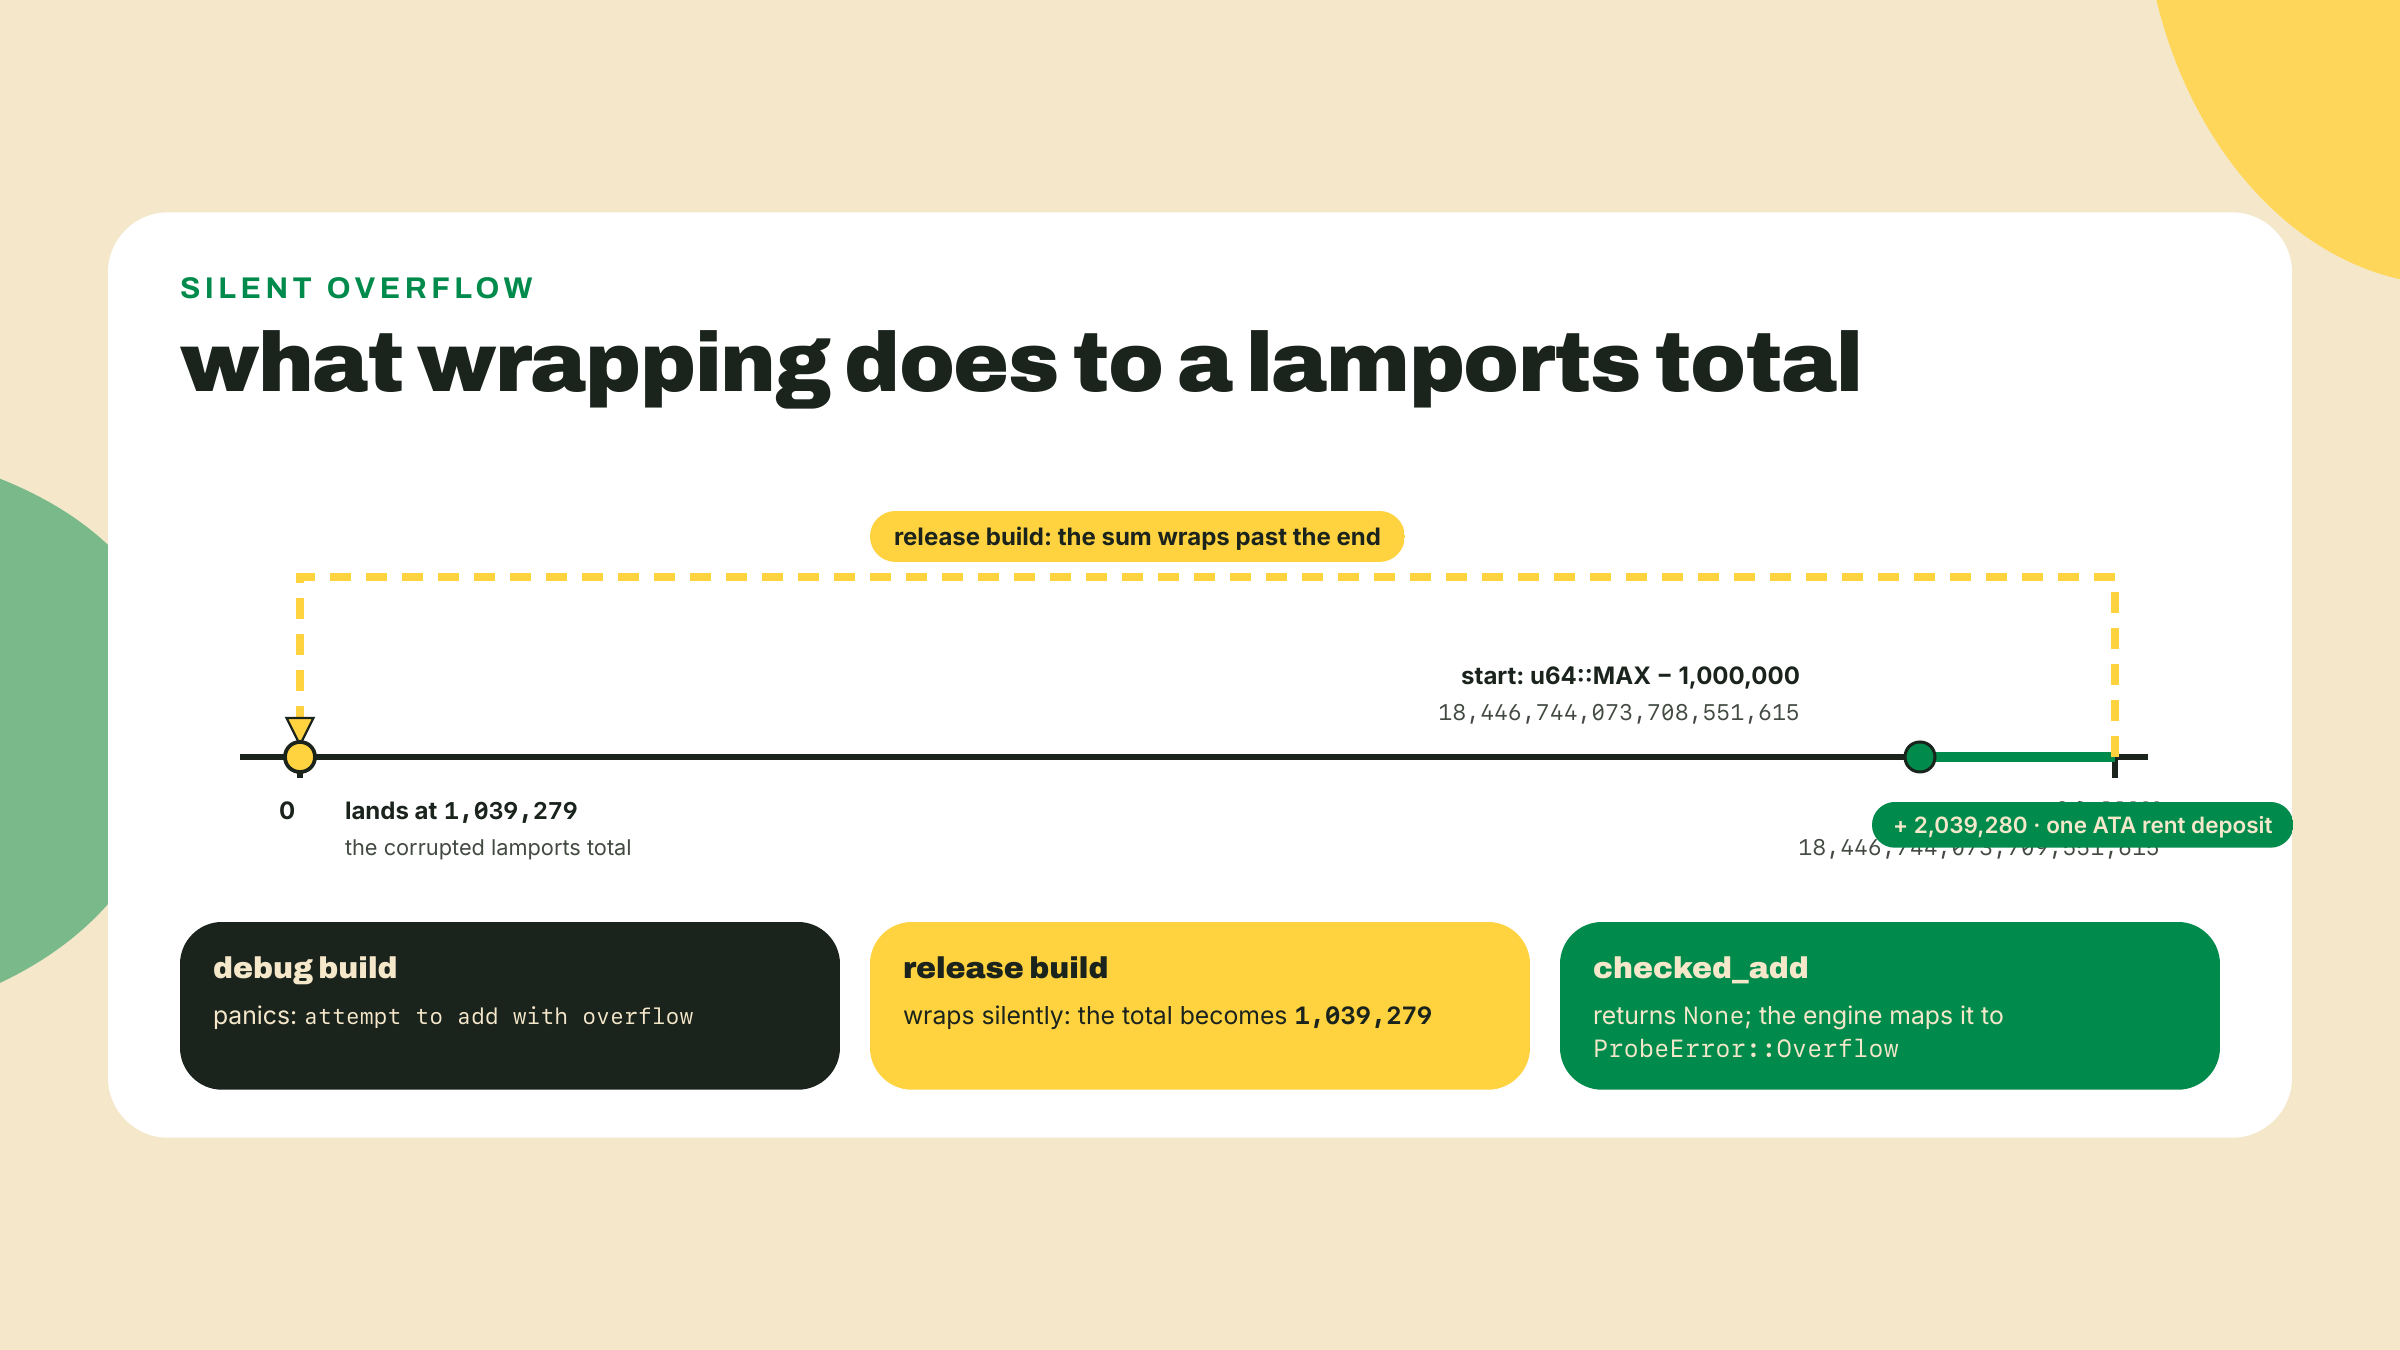
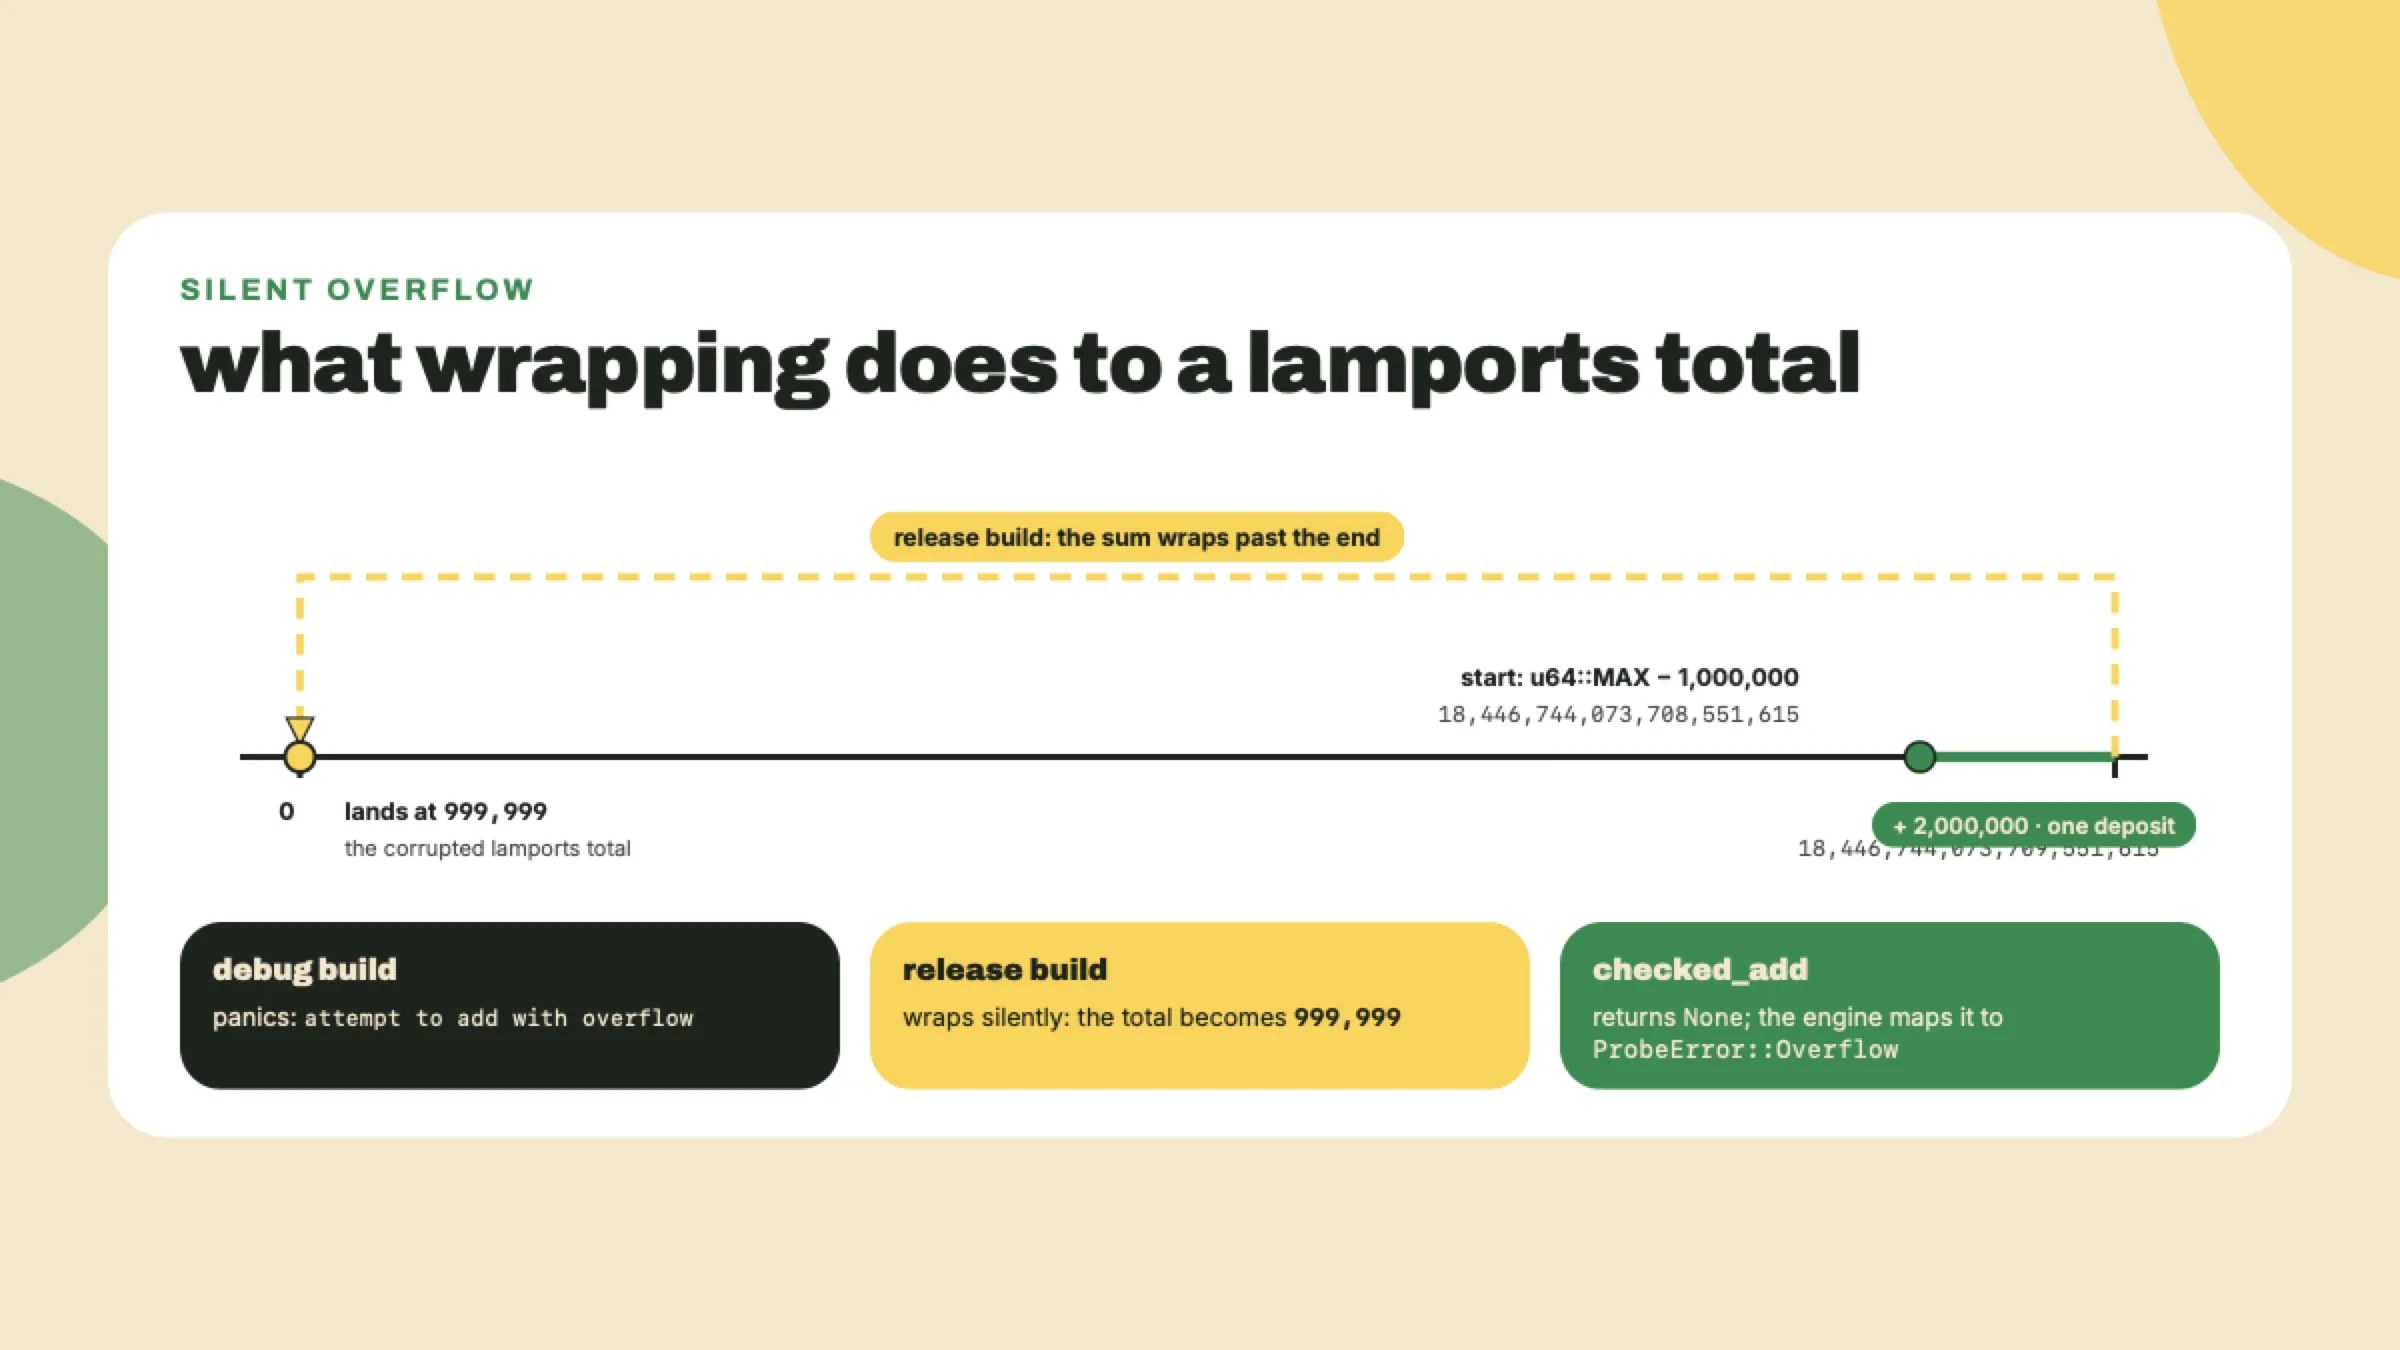
fix(rust-ts): decouple the u64 overflow example from the ATA rent constant
m04-l2 worked the overflow with 2,039,280 lamports, described as the
rent-exempt balance for one associated token account. That is the
pre-SIMD-0437 figure and it now matches no cluster: probed 2026-09-11,
mainnet answers 1,855,569 and devnet 1,488,440 for a 165-byte account.
It also contradicted solana-payments-commerce, which teaches the live
numbers and re-verified exactly.

Rather than re-stamp a figure that will drift again on the next SIMD-0437
step, the example drops the rent framing entirely. The lesson is about
wrapping arithmetic, not about rent: a live constant added no teaching
value, could not be probe-driven (a changing addend changes the worked
result), and was carrying a maintenance liability plus a cross-course
contradiction.

The addend is now a round 2,000,000, which wraps to 999,999 — still
"roughly one thousandth of a SOL", so the sentence that follows it holds,
and an easier number to follow than 1,039,279. intro, the quiz
explanation, and the v04 diagram move together; no 2,039,280 or 1,039,279
remains anywhere in the course.

quiz_permute check: 135 questions, 0 out of order. quiz_stats: pass.

diff --git a/courses/rust-ts-fundamentals/visual-src/m04-l2/v04-diagram.html b/courses/rust-ts-fundamentals/visual-src/m04-l2/v04-diagram.html
@@ -12,7 +12,7 @@
 <body>
 <!-- diagram: What wrapping does to a lamports total
      purpose: show the silent wrap with the lesson's worked numbers so the corruption is visible
-     data: u64 number line from 0 to u64::MAX (18,446,744,073,709,551,615) start: u64::MAX - 1,000,000 = 18,446,744,073,708,551,615 add: 2,039,280 lamports (one ATA rent deposit) debug build: panic, attempt to add with overflow release build: wraps past the end to 1,039,279 checked_add: returns None, which the engine maps to ProbeError::Overflow note: all values exact, derived from u64::MAX arithmetic
+     data: u64 number line from 0 to u64::MAX (18,446,744,073,709,551,615) start: u64::MAX - 1,000,000 = 18,446,744,073,708,551,615 add: 2,000,000 lamports (one deposit) debug build: panic, attempt to add with overflow release build: wraps past the end to 999,999 checked_add: returns None, which the engine maps to ProbeError::Overflow note: all values exact, derived from u64::MAX arithmetic
      prompt: Horizontal number line with the maximum value at the right edge. A marker sits just short of the edge with an addition arrow that runs off the end and re-enters at the left near zero, landing on a small marker labeled with the wrapped result. Three outcome chips below contrast debug panic, release silent wrap, and checked_add returning None mapped to an Overflow error.
      BUILD .viz as on-brand HTML per skills/content-gen/references/visual-rendering.md.
      Header: <div class="stbr-eyebrow">..</div> + <h2 class="viz-title">..</h2>.
@@ -62,11 +62,11 @@
         <span class="v04-mono" style="font-size:15px;color:var(--text-secondary);">18,446,744,073,708,551,615</span>
       </div>
       <div class="v04-lab" style="left:1128px;top:246px;background:var(--surface-brand);color:var(--text-on-brand);
-                  border-radius:var(--radius-pill);padding:4px 14px;font-size:15px;font-weight:600;">+ 2,039,280 · one ATA rent deposit</div>
+                  border-radius:var(--radius-pill);padding:4px 14px;font-size:15px;font-weight:600;">+ 2,000,000 · one deposit</div>
       <div class="v04-lab" style="left:460px;top:52px;background:var(--surface-accent);color:var(--text-on-accent);
                   border-radius:var(--radius-pill);padding:5px 16px;font-weight:700;">release build: the sum wraps past the end</div>
       <div class="v04-lab" style="left:110px;top:240px;">
-        <span style="font-weight:700;">lands at</span> <span class="v04-mono" style="font-weight:700;">1,039,279</span><br>
+        <span style="font-weight:700;">lands at</span> <span class="v04-mono" style="font-weight:700;">999,999</span><br>
         <span style="font-size:14.5px;color:var(--text-secondary);">the corrupted lamports total</span>
       </div>
     </div>
@@ -77,7 +77,7 @@
       </div>
       <div class="v04-chip" style="background:var(--surface-accent);color:var(--text-on-accent);">
         <div class="v04-ch">release build</div>
-        <div class="v04-cb">wraps silently: the total becomes <span class="v04-mono" style="font-weight:700;">1,039,279</span></div>
+        <div class="v04-cb">wraps silently: the total becomes <span class="v04-mono" style="font-weight:700;">999,999</span></div>
       </div>
       <div class="v04-chip" style="background:var(--surface-brand);color:var(--text-on-brand);">
         <div class="v04-ch">checked_add</div>

diff --git a/courses/rust-ts-fundamentals/lessons/m04-l2/intro.md b/courses/rust-ts-fundamentals/lessons/m04-l2/intro.md
@@ -104,7 +104,7 @@ And it is the canon, not my preference. I probed the Cargo.toml files of the loa
 
 One more failure mode belongs here because it does NOT announce itself. Your latencies and, later in this course, your lamports are `u64` values, and `u64` addition can overflow. Here is the nasty part: debug builds panic on overflow, release builds wrap around silently by default. The same line of code, two behaviors. Your teammate says "ship the release build, it doesn't panic there," and your teammate is technically right in the worst possible way, because a wrapped u64 is not a crash, it is a wrong number wearing a straight face.
 
-Work it with real values. The rent-exempt balance for one associated token account on Solana is 2,039,280 lamports (a worked number here and nothing more; what an ATA actually is belongs to the Digital Assets course). Say a balance counter sits near the top of the range, at `u64::MAX - 1_000_000`, which is 18,446,744,073,708,551,615. Add one rent deposit of 2,039,280 in a release build and the sum wraps past zero to 1,039,279. Eighteen and a half quintillion lamports become roughly one thousandth of a SOL, no panic, no log line, and every calculation downstream happily consumes the corpse. I have shipped this bug's cousin: a balance ticker that hit 18,446,744,073,709,551,615 on screen because a refund landed twice and my subtraction wrapped underneath zero. Nobody caught it for a day, because nothing crashed. "It didn't crash" is not "it was right."
+Work it with real values. Say a balance counter sits near the top of the range, at `u64::MAX - 1_000_000`, which is 18,446,744,073,708,551,615. Add a deposit of 2,000,000 lamports in a release build and the sum wraps past zero to 999,999. Eighteen and a half quintillion lamports become roughly one thousandth of a SOL, no panic, no log line, and every calculation downstream happily consumes the corpse. I have shipped this bug's cousin: a balance ticker that hit 18,446,744,073,709,551,615 on screen because a refund landed twice and my subtraction wrapped underneath zero. Nobody caught it for a day, because nothing crashed. "It didn't crash" is not "it was right."
 
 ![An addition near the top of the u64 range runs off the end of a number line and reappears near zero as a tiny wrapped total.](assets/v04-diagram.webp)
 
